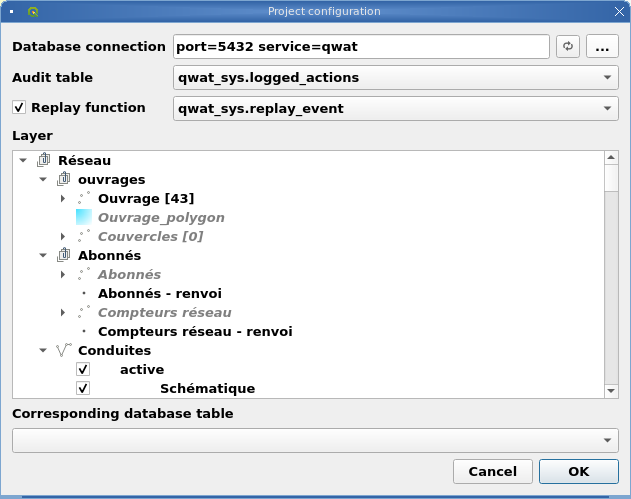
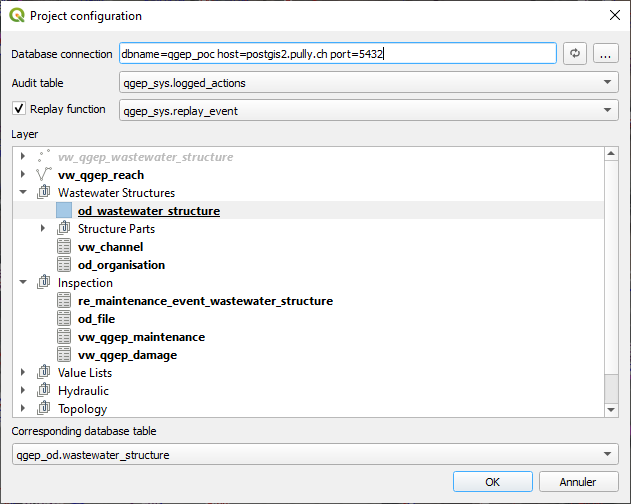
update images for QGEP. Note for replay events

Changed region(s): [[0.0, 0.0, 1.0, 1.0], [0.0, 0.1503, 0.1506, 0.1804], [0.3914, 0.6613, 0.4818, 0.6914]]

diff --git a/en/user-guide/history/history.rst b/en/user-guide/history/history.rst
@@ -25,12 +25,15 @@ The "logged events" window is composed of 4 parts.
 Replay function
 ---------------
 
-If you have configured the replay option, you can replay actions. Example below:
+.. note::
+  Doesn't works yet for QGEP.
 
-Actual value:
+.. If you have configured the replay option, you can replay actions. Example below:
 
-.. image:: img/pg_hv_replay_before.png
+.. Actual value:
 
-Select the event you want to replay and its values will become the current ones. Example for the year that becomes 2004 again:
+.. .. image:: img/pg_hv_replay_before.png
 
-.. image:: img/pg_hv_replay_after.png
+.. Select the event you want to replay and its values will become the current ones. Example for the year that becomes 2004 again:
+
+.. .. image:: img/pg_hv_replay_after.png
